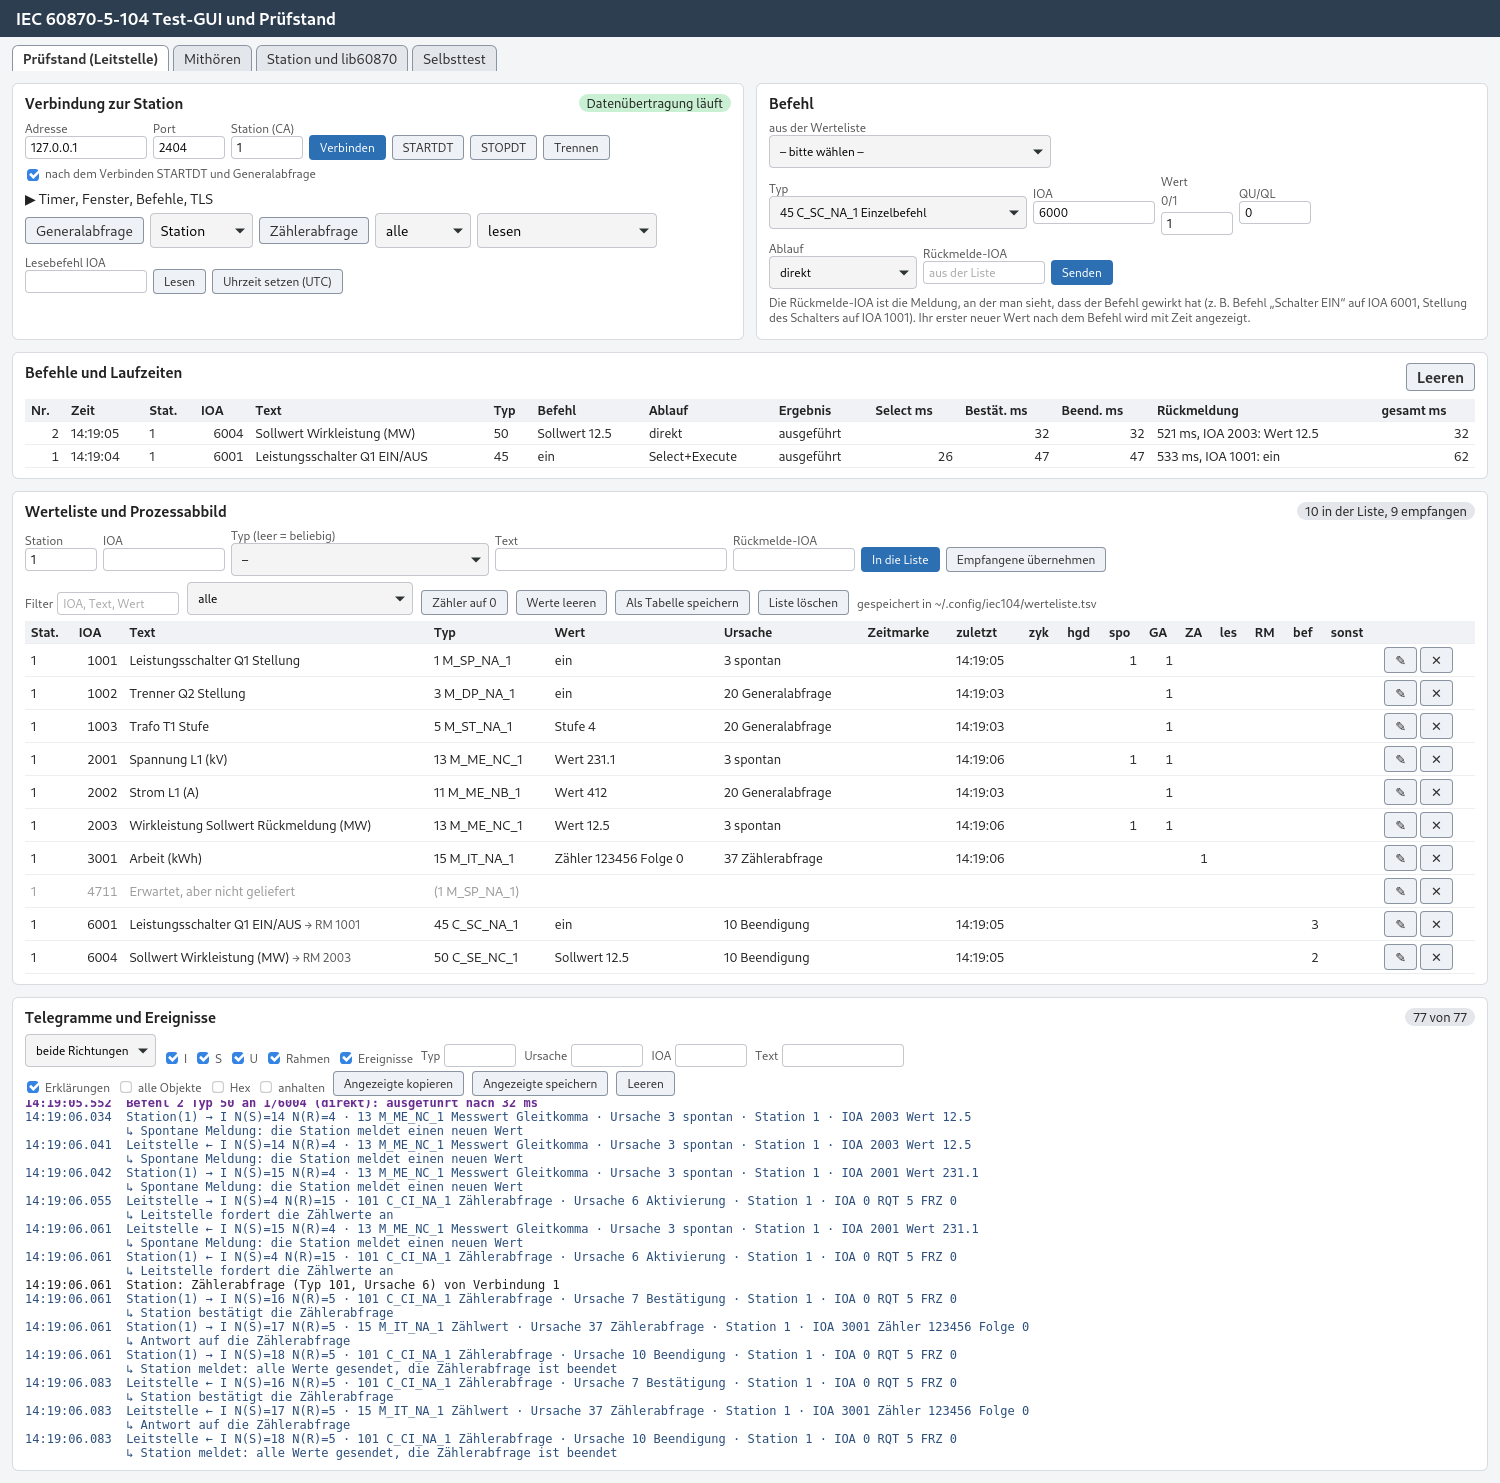
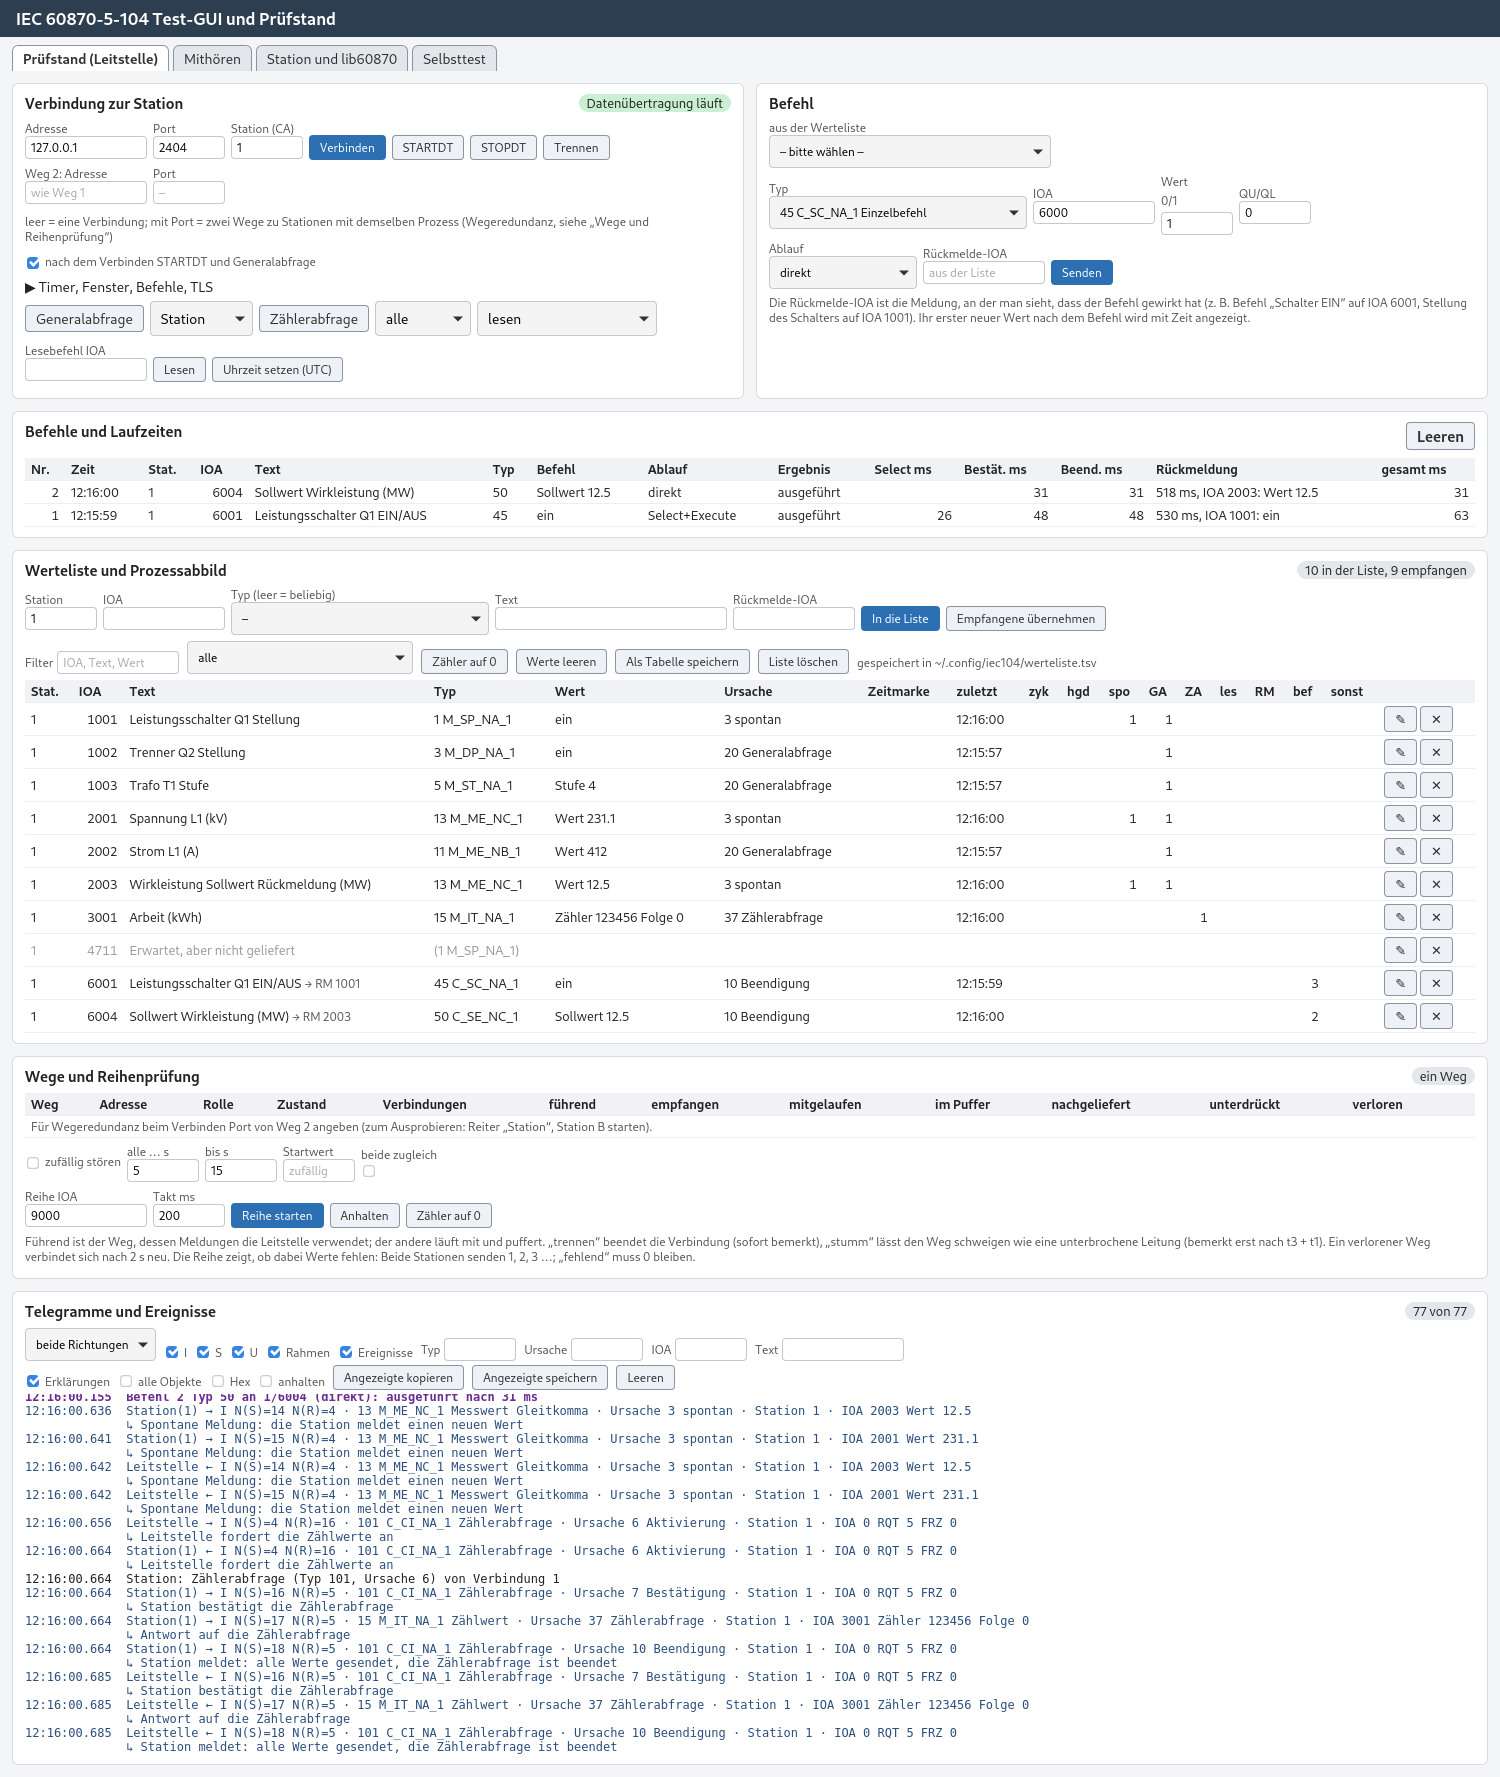
gui: Bild und Anleitung „Zwei Wege“, IOA-Vorschlag, Version 1.0.1
Neues Bild der Test-GUI mit zwei Wegen im README und in docs/07, dort
die Bedienung als Schrittfolge. Ereignisse der ersten Station heißen
„Station A“, solange Station B läuft. Die Teststation schlägt für einen
neuen Datenpunkt die nächste freie IOA vor.

diff --git a/examples/julia/gui/index.html b/examples/julia/gui/index.html
@@ -252,9 +252,9 @@ Test GUI of the IEC 104 library; served by iec104_gui.jl.
   </div>
   <div class="row">
     <label>Datenpunkt<select id="ptype" onchange="ranges()"></select></label>
-    <label>IOA<input id="pioa" class="m" value="100"></label>
+    <label title="Informationsobjektadresse: Nummer des Datenpunkts in der Station">IOA (Adresse des Punkts)<input id="pioa" class="m" value="100" oninput="pioaTouched = true"></label>
     <label>Wert <span id="prange" class="hint"></span><input id="pvalue" class="s" value="0"></label>
-    <label>&nbsp;<button class="main" onclick="act('server/point', {type: v('ptype'), ioa: v('pioa'), value: v('pvalue')})">Anlegen / senden</button></label>
+    <label>&nbsp;<button class="main" onclick="createPoint()">Anlegen / senden</button></label>
   </div>
   <div class="scroll"><table>
     <thead><tr><th>IOA</th><th>Typ</th><th>Wert</th><th></th></tr></thead>
@@ -589,6 +589,20 @@ function saveText(text, name, ext = 'txt') {
   a.click();
   setTimeout(() => URL.revokeObjectURL(a.href), 2000);   // the download needs the URL a moment longer
 }
+// IOA of a new station point: the next free one after the last created (from 100),
+// filled in automatically until the user types an own one.
+let pioaTouched = false, lastPointIoa = 0;
+function suggestIoa(points) {
+  const used = new Set(points.map(p => p.ioa));
+  let n = lastPointIoa ? lastPointIoa + 1 : 100;
+  while (used.has(n)) n++;
+  return n;
+}
+async function createPoint() {
+  const ioa = Number(v('pioa'));
+  await act('server/point', {type: v('ptype'), ioa: v('pioa'), value: v('pvalue')});
+  if (!document.getElementById('err').textContent) { lastPointIoa = ioa; pioaTouched = false; }
+}
 function sendPoint(ioa, type, delta) {
   const input = document.getElementById('pv' + ioa);
   const value = delta === undefined ? input.value : String(Number(input.value) + delta);
@@ -757,6 +771,8 @@ async function update() {
       `<td><button onclick="sendPoint(${p.ioa}, ${p.type})">Senden</button> ` +
       `<button onclick="sendPoint(${p.ioa}, ${p.type}, 1)">+1</button></td></tr>`).join('');
   }
+  const pioa = document.getElementById('pioa');
+  if (!pioaTouched && document.activeElement !== pioa) pioa.value = suggestIoa(s.server.points);
   const acc = document.getElementById('accept');
   if (document.activeElement !== acc) acc.checked = s.server.accept;
   document.getElementById('conns').textContent =

diff --git a/tools/gui_screenshot.js b/tools/gui_screenshot.js
@@ -7,13 +7,15 @@
 // offscreen window and writes the whole page as PNG. Console messages of the
 // page (JavaScript errors) go to stdout. Started by tools/gui_screenshot.sh.
 //
-//   gjs tools/gui_screenshot.js URL OUT.png [WIDTH] [WAIT_MS]
+//   gjs tools/gui_screenshot.js URL OUT.png [WIDTH] [WAIT_MS] [SCRIPT]
+//
+// SCRIPT: JavaScript run in the page before the snapshot (e.g. to set a filter).
 imports.gi.versions.Gtk = '3.0';
 imports.gi.versions.WebKit2 = '4.0';
 const {Gtk, WebKit2, GLib} = imports.gi;
 const System = imports.system;
 
-const [url, out, width = '1500', wait = '4000'] = ARGV;
+const [url, out, width = '1500', wait = '4000', script = ''] = ARGV;
 Gtk.init(null);
 const win = new Gtk.OffscreenWindow();
 const view = new WebKit2.WebView();
@@ -25,6 +27,8 @@ let rc = 1;
 view.connect('load-changed', (v, event) => {
     if (event !== WebKit2.LoadEvent.FINISHED) return;
     GLib.timeout_add(GLib.PRIORITY_DEFAULT, Number(wait), () => {
+        if (script) view.run_javascript(script, null, null);
+        GLib.timeout_add(GLib.PRIORITY_DEFAULT, script ? 500 : 0, () => {
         view.get_snapshot(WebKit2.SnapshotRegion.FULL_DOCUMENT, WebKit2.SnapshotOptions.NONE, null,
             (src, res) => {
                 try {
@@ -37,6 +41,8 @@ view.connect('load-changed', (v, event) => {
                 }
                 Gtk.main_quit();
             });
+        return false;
+        });
         return false;
     });
 });

diff --git a/tests/gui/test_page.js b/tests/gui/test_page.js
@@ -117,6 +117,7 @@ async function main() {
   await api.act('server/point', {type: 13, ioa: 100, value: 4.5});
   await api.act('server/point', {type: 1, ioa: 1001, value: 0});
   await tick('Station');
+  const suggested = String(els['pioa'].value);   // next free IOA after 100 (1001 also used)
   const sport = (els['sstate'].textContent.match(/Port (\d+)/) || [])[1];
   const sportb = (els['sstate'].textContent.match(/und (\d+) \(B\)/) || [])[1];
   print('Station: ' + els['sstate'].textContent);
@@ -160,6 +161,7 @@ async function main() {
   const expect = (ok, what) => { if (!ok) errors.push('erwartet: ' + what); };
   expect(/^Port \d+ und \d+ \(B\), Station 1$/.test(els['sstate'].textContent), 'Station A und B laufen');
   expect(twoPaths, 'zwei Wege, einer führend');
+  expect(suggested === '101', 'nächste freie IOA vorgeschlagen (101), erhalten ' + suggested);
   expect(/Umschaltungen$/.test(els['pathstate'].textContent) && !/ 0 Umschaltungen$/.test(els['pathstate'].textContent),
          'Umschaltung nach dem Trennen');
   expect(/^läuft, Startwert 7, \d+ Störungen$/.test(autoText), 'zufällige Störungen mit Startwert');

diff --git a/include/iec104/iec104.h b/include/iec104/iec104.h
@@ -63,7 +63,7 @@ extern "C" {
 /** @brief Minor version of this header. Compatible additions increment it. */
 #define IEC104_VERSION_MINOR 0
 /** @brief Patch version of this header. Fixes without API change increment it. */
-#define IEC104_VERSION_PATCH 0
+#define IEC104_VERSION_PATCH 1
 
 /**
  * @brief Default TCP port of an IEC 60870-5-104 connection without TLS.

diff --git a/docs/07_Julia.md b/docs/07_Julia.md
@@ -9,7 +9,7 @@ Julia ruft die C-Schnittstelle direkt mit `ccall` auf. Es gibt kein Paket zu ins
 Binärpaket `iec104-<version>-linux-x86_64.zip` entpacken, dann:
 
 ```bash
-cd iec104-1.0.0-linux-x86_64
+cd iec104-1.0.1-linux-x86_64
 julia julia/server.jl 2404 &             # Station 1, Messwert IOA 100, steigt jede Sekunde
 julia julia/client.jl 127.0.0.1 2404     # Generalabfrage, danach drei spontane Werte
 ```
@@ -340,13 +340,21 @@ Nur dort mithören, wo es erlaubt ist.
 
 ### 7.6 Zwei Wege
 
-Ausprobieren ohne zweite echte Station:
+Zwei Wege heißt: Die Leitstelle ist mit zwei Stationen verbunden, die denselben Prozess melden (z. B. zwei Vorrechner einer Anlage). Sie verwendet die Meldungen nur eines Wegs, des **führenden**; der andere **läuft mit**. Fällt der führende Weg aus, übernimmt der andere, ohne dass Meldungen fehlen. Die GUI spielt beide Stationen selbst (Station A und Station B), deshalb braucht man zum Ausprobieren kein Gerät.
 
-1. Reiter „Station“: Port 2404, **Port Station B** 2405, „Starten“. Station B hat dieselben Datenpunkte; eine Wertänderung geht an beide („Wertänderung an“ = beide; „nur A“/„nur B“ erzeugt absichtlich eine Abweichung).
-2. Reiter „Prüfstand“: Port 2404, **Weg 2: Port** 2405, „Verbinden“. Für schnelles Umschalten bei „stumm“ unter „Timer …“ t1 = 2 und t3 = 1 eintragen.
-3. Bereich „Wege und Reihenprüfung“: Tabelle der Wege; je Weg „trennen“, „stumm“, „freigeben“.
-4. „Reihe starten“: beide Stationen senden IOA 9000 = 1, 2, 3 … Die Zeile darunter zeigt gesendet, zugestellt, fehlend, doppelt; **fehlend muss 0 bleiben**.
-5. „zufällig stören“: alle von–bis Sekunden wird ein Weg getrennt oder stumm geschaltet, nie beide zugleich (abschaltbar). Der Startwert steht im Protokoll; mit demselben Startwert wiederholt sich der Lauf.
+Damit man sieht, dass beim Umschalten nichts fehlt, gibt es die **Reihe**: Beide Stationen senden auf IOA 9000 die Zahlen 1, 2, 3, … (alle 200 ms eine). Die Leitstelle zählt, welche Zahlen bei ihr ankommen. Fehlt eine, steht unter „fehlend“ eine Zahl größer 0.
+
+| Nr | Tun | Sehen |
+| --- | --- | --- |
+| 1 | Reiter „Station und lib60870“: Port `2404`, Port Station B `2405`, „Starten“ | Kopfzeile „Port 2404 und 2405 (B), Station 1“ |
+| 2 | Reiter „Prüfstand“: Port `2404`; „Weg 2: Port“ `2405`; „Timer, Fenster, Befehle, TLS“ aufklappen, t1 = `2`, t3 = `1`; „Verbinden“ | Bereich „Wege und Reihenprüfung“: zwei Zeilen, beide „Datenübertragung läuft“; Weg 1 „führend“, Weg 2 „läuft mit“ |
+| 3 | im selben Bereich „Reihe starten“ | Zeile rechts daneben: „läuft: gesendet …, zugestellt …, fehlend 0“; die Zahlen steigen |
+| 4 | in der Zeile von Weg 1 „trennen“ | sofort: Weg 2 „führend“, oben rechts „1 Umschaltungen“; nach 2 s ist Weg 1 wieder da und „läuft mit“; fehlend bleibt 0 |
+| 5 | in der Zeile von Weg 2 (jetzt führend) „stumm“ | etwa 3 s passiert nichts (der Weg schweigt, die Library merkt es erst über t3 und t1), dann führt Weg 1; Spalte „nachgeliefert“ von Weg 1 steigt; fehlend bleibt 0 |
+| 6 | „Anhalten“ | „angehalten: gesendet N, zugestellt N, fehlend 0“ |
+| 7 | optional „zufällig stören“ einschalten, eine Minute warten, wieder ausschalten | unter Telegramme „Störung 1 (zufällig, Startwert …)“ usw.; fehlend bleibt 0, doppelt darf größer 0 sein |
+
+Unter „Telegramme und Ereignisse“ den Haken „Rahmen“ entfernen: dann stehen dort nur die Ereignisse, u. a. jede Umschaltung mit Grund.
 
 | Spalte | Bedeutung |
 | --- | --- |
@@ -356,4 +364,6 @@ Ausprobieren ohne zweite echte Station:
 | nachgeliefert, unterdrückt | bei Umschaltungen auf diesen Weg aus dem Puffer zugestellt bzw. schon bekannt |
 | verloren | aus dem Puffer gefallen (Fenster zu kurz); muss 0 sein |
 
-Unter „Telegramme“ stehen die Rahmen mit „Leitstelle Weg 1“/„Weg 2“ und jede Umschaltung mit Grund. Verfahren: `docs/06_Anleitung.md`, Abschnitt 6, „Zwei Wege“.
+Unter „Telegramme“ stehen die Rahmen mit „Leitstelle Weg 1“/„Weg 2“ und jede Umschaltung mit Grund.
+
+![Reiter Prüfstand mit zwei Wegen: Weg 1 getrennt, Weg 2 stumm; Reihe ohne fehlende Werte; Umschaltungen unter Telegramme (nur Ereignisse)](bilder/test_gui_wege.png) Verfahren: `docs/06_Anleitung.md`, Abschnitt 6, „Zwei Wege“.

diff --git a/README.md b/README.md
@@ -4,7 +4,7 @@
 
 Client (steuernde Station) und Server (gesteuerte Station) für IEC 60870-5-104, optional über TLS nach IEC 62351-3. Kern C++17, Schnittstelle C (`include/iec104/iec104.h`).
 
-Stand: 27.11.2026, Version 1.0.0, Linux x86-64.
+Stand: 27.11.2026, Version 1.0.1, Linux x86-64.
 
 ## Sofort nutzen, ohne zu bauen
 
@@ -20,7 +20,7 @@ Läuft auf AlmaLinux/RHEL 9, Ubuntu ab 22.04, Debian 12 und unter WSL2 (glibc ab
 Alles auf einmal unter WSL oder Linux ausprobieren: `bash tools/wsl_ausprobieren.sh` (aus einem Windows-Checkout z. B. `bash /mnt/c/<pfad>/tools/wsl_ausprobieren.sh`). Das Skript holt das Repo nach `~/src/iec104`, prüft die Voraussetzungen und nennt fehlende Pakete, testet die fertige Library, baut aus den Quellen und lässt alle Tests laufen; `--ohne-bauen` lässt den letzten Teil weg.
 
 ```bash
-cd dist/iec104-1.0.0-linux-x86_64
+cd dist/iec104-1.0.1-linux-x86_64
 gcc -Iinclude meine_app.c lib/libiec104.so.1 -Wl,-rpath,'$ORIGIN/lib' -o meine_app   # C
 julia julia/server.jl 2404 &                                                       # Julia: Station
 julia julia/client.jl 127.0.0.1 2404                                               # Julia: Leitstelle
@@ -36,6 +36,12 @@ Reiter „Prüfstand“ mit Teststation als Gegenstelle: Befehle mit Laufzeiten 
 | Reiter „Mithören“ (Mitschnitt mit tcpdump oder Wireshark) | Reiter „Station und lib60870“ (Teststation) |
 | --- | --- |
 | ![Mithören](docs/bilder/test_gui_mithoeren.png) | ![Teststation](docs/bilder/test_gui_station.png) |
+
+### Zwei Wege (Wegeredundanz)
+
+![Prüfstand mit zwei Wegen zu Station A und B: Weg 1 getrennt, Weg 2 stumm geschaltet, Reihe ohne fehlende Werte](docs/bilder/test_gui_wege.png)
+
+Die Leitstelle hält zwei Wege zu zwei Stationen mit demselben Prozess. Verwendet wird nur der führende Weg; fällt er aus, übernimmt der andere und liefert nach, was in der Zwischenzeit kam. Hier wurde Weg 1 getrennt (sofort umgeschaltet) und danach Weg 2 stumm geschaltet (umgeschaltet nach t3 + t1, 15 Werte nachgeliefert). Die Reihenprüfung zeigt: 66 gesendet, 66 zugestellt, 0 fehlend. Ablauf zum Nachmachen: `docs/07_Julia.md`, Abschnitt 7.6; Verfahren: `docs/06_Anleitung.md`, „Zwei Wege“.
 
 Bilder neu erzeugen: `tools/gui_screenshot.sh build/shared/libiec104.so.1`.
 

diff --git a/docs/12_Manueller_Test_GUI.md b/docs/12_Manueller_Test_GUI.md
@@ -39,7 +39,7 @@ Aufbau der Seite: oben die Reiter „Prüfstand (Leitstelle)“, „Mithören“
 | Nr | Tun | Erwartet | Erklärung | ✓ |
 | --- | --- | --- | --- | --- |
 | B1 | Reiter „Station und lib60870“: Port 2404, Station (CA) 1, „Starten“ | rechts oben grün „Port 2404, Station 1“ | 2404 ist der Standardport von IEC 104; die Station lauscht nur auf 127.0.0.1 | |
-| B2 | Datenpunkt „1 M_SP_NA_1 Einzelmeldung“, IOA 1001, Wert 0, „Anlegen / senden“ | Zeile 1001 in der Tabelle | Einzelmeldung: 0 = aus, 1 = ein (z. B. Schalterstellung) | |
+| B2 | Datenpunkt „1 M_SP_NA_1 Einzelmeldung“, IOA 1001, Wert 0, „Anlegen / senden“ | Zeile 1001 in der Tabelle | Einzelmeldung: 0 = aus, 1 = ein (z. B. Schalterstellung). Die IOA ist die Adresse des Datenpunkts in der Station; die GUI schlägt die nächste freie vor, eine eigene Eingabe gilt | |
 | B3 | Datenpunkt „13 M_ME_NC_1 Messwert Gleitkomma“, IOA 2001, Wert 230.5, „Anlegen / senden“ | Zeile 2001 | Messwert als Gleitkommazahl (z. B. Spannung) | |
 | B4 | Datenpunkt Typ 1, IOA 2001, Wert 1, „Anlegen / senden“ | rote Zeile oben: „IOA 2001 ist schon als Typ 13 angelegt …“ | Eine IOA hat genau einen Typ; die GUI verhindert Verwechslungen | |
 | B5 | Datenpunkt Typ 1, IOA 1002, Wert 2, „Anlegen / senden“ | rote Zeile: „Wert 2.0 passt nicht zu Typ 1 – erlaubt: 0 oder 1“ | Werte werden vor dem Senden geprüft | |

diff --git a/intern/CHANGELOG_fein.md b/intern/CHANGELOG_fein.md
@@ -1,5 +1,14 @@
 # Änderungen – ausführlich (nur intern, nicht im öffentlichen Repo)
 
+## 1.0.1 (27.11.2026)
+
+| Bereich | Änderung |
+| --- | --- |
+| Doku | Bild test_gui_wege.png (Sitzung 3 in tools/gui_screenshot.sh, nur Ereignisse per Seitenskript); README-Abschnitt „Zwei Wege“; docs/07 7.6 als Tabelle Tun/Sehen (Nutzer verstand „Reihe starten, dann trennen“ nicht) |
+| Test-GUI | Ereignisse der ersten Station „Station A“, solange Station B läuft |
+| Test-GUI | Teststation: IOA-Feld schlägt die nächste freie IOA nach der zuletzt angelegten vor (ab 100), bis man selbst tippt; Beschriftung „IOA (Adresse des Punkts)“ (Wunsch des Nutzers); Seitentest prüft den Vorschlag |
+| Hinweis | Meldung „Kein lib60870-Ordner angegeben“ beim Nutzer kam von meinem Startbefehl ohne dritten Parameter, nicht von 1.0.0; Paket mit Ordner: 27/27 |
+
 ## 1.0.0 (27.11.2026)
 
 | Bereich | Änderung |

diff --git a/CHANGELOG.md b/CHANGELOG.md
@@ -1,5 +1,11 @@
 # Änderungen
 
+## 1.0.1 (27.11.2026)
+
+- Bild und Schritt-für-Schritt-Anleitung „Zwei Wege“ in README und `docs/07_Julia.md`.
+- Test-GUI: Meldungen der ersten Station heißen „Station A“, sobald Station B läuft.
+- Teststation: die IOA eines neuen Datenpunkts wird vorgeschlagen (nächste freie), eigene Eingabe gilt.
+
 ## 1.0.0 (27.11.2026)
 
 - Wegeredundanz: Eine Leitstelle hält bis zu vier Wege zu Stationen mit demselben Prozess. Fällt der führende Weg aus, übernimmt ein anderer ohne Verlust von Meldungen (`iec104_client_connect_paths()`, `docs/06_Anleitung.md`).

diff --git a/docs/09_Interoperabilitaetsliste.md b/docs/09_Interoperabilitaetsliste.md
@@ -1,6 +1,6 @@
 # Interoperabilitätsliste (IEC 60870-5-104, Abschnitt 9)
 
-IEC 60870-5-104 Library 1.0.0 · Rolle: Station und Leitstelle · Parameter: Standardwerte
+IEC 60870-5-104 Library 1.0.1 · Rolle: Station und Leitstelle · Parameter: Standardwerte
 
 Erzeugt mit `iec104_interop_list`. Gliederung und Bezeichnungen nach öffentlichen Wiedergaben der Checkliste (docs/02_Technik_und_Quellen.md, [ORA]); die Angaben stammen aus dem Code der Library. Eigene Parameter: `iec104_interop_list --config datei.conf`, zum Abgleich mit der Liste einer Gegenstelle `--format csv`.
 
